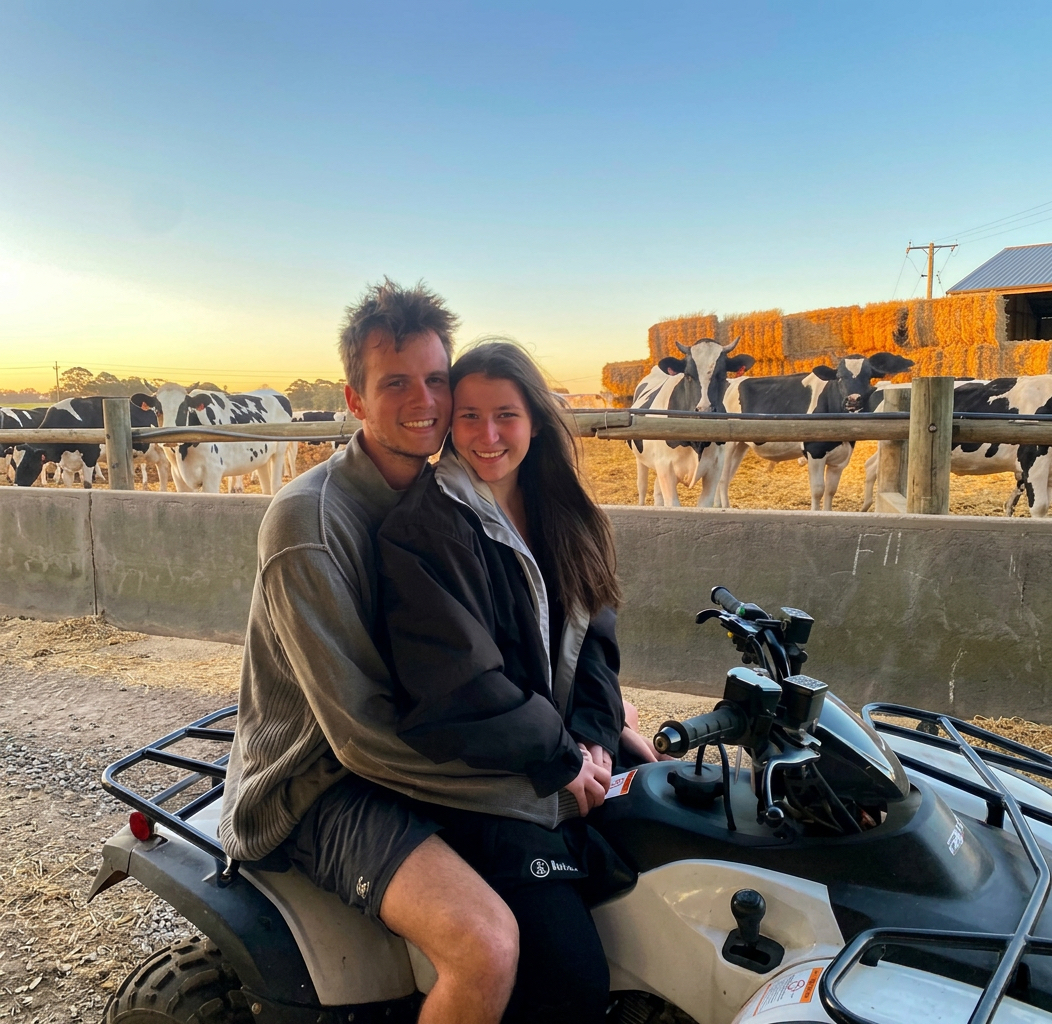
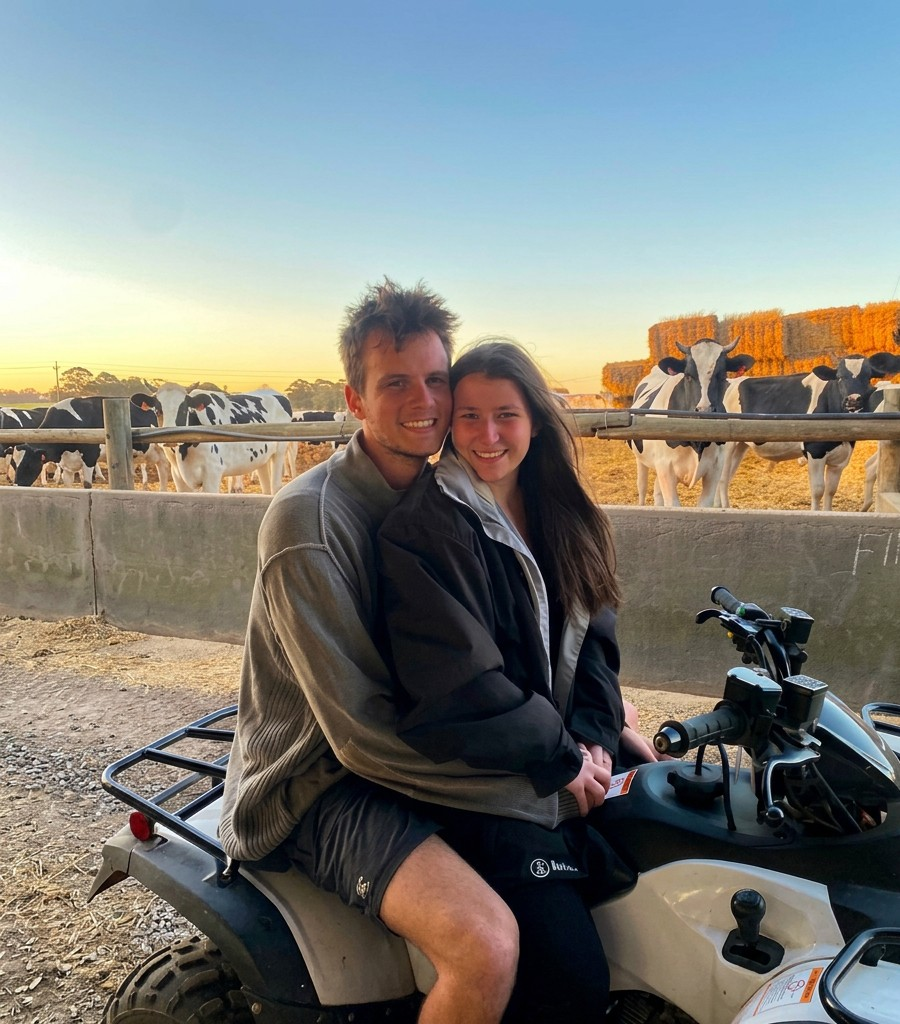
Updated all images on website

diff --git a/index.html b/index.html
@@ -47,7 +47,7 @@
   <section class="section" id="when-where">
     <h2>Waar &amp; Wanneer</h2>
     <div class="photo-band">
-      <img src="images/venue.jpg" alt="Country Sjiek" onerror="this.parentElement.classList.add('img-missing')">
+      <img src="images/countrysjiek00003-2.jpg" alt="Country Sjiek" onerror="this.parentElement.classList.add('img-missing')">
     </div>
     <div class="detail-block">
       <div class="detail-date">6 Februarie 2027</div>
@@ -81,7 +81,7 @@
     <p class="schedule-note">Ons vra dat gaste stiptelik hul sitplekke inneem.</p>
     <div class="dress-code">Kleredrag &mdash; Formeel</div>
     <div class="photo-band">
-      <img src="images/couple-formal.jpg" alt="Marli en Liam" onerror="this.parentElement.classList.add('img-missing')">
+      <img src="images/IMG_3452.jpeg" alt="Marli en Liam" onerror="this.parentElement.classList.add('img-missing')">
     </div>
   </section>
 
@@ -212,7 +212,7 @@
   <!-- CLOSING -->
   <section class="section closing" id="closing">
     <div class="photo-band">
-      <img src="images/closing.jpg" alt="Marli en Liam" onerror="this.parentElement.classList.add('img-missing')">
+      <img src="images/01881854-61cc-46ce-92e9-f1a41ccec458.jpeg" alt="Marli en Liam" onerror="this.parentElement.classList.add('img-missing')">
     </div>
     <h2 class="closing-message">Ons kan nie wag om saam met jou ons troue te vier nie!</h2>
     <p class="section-sub">RSVP teen 31 Oktober 2026</p>
